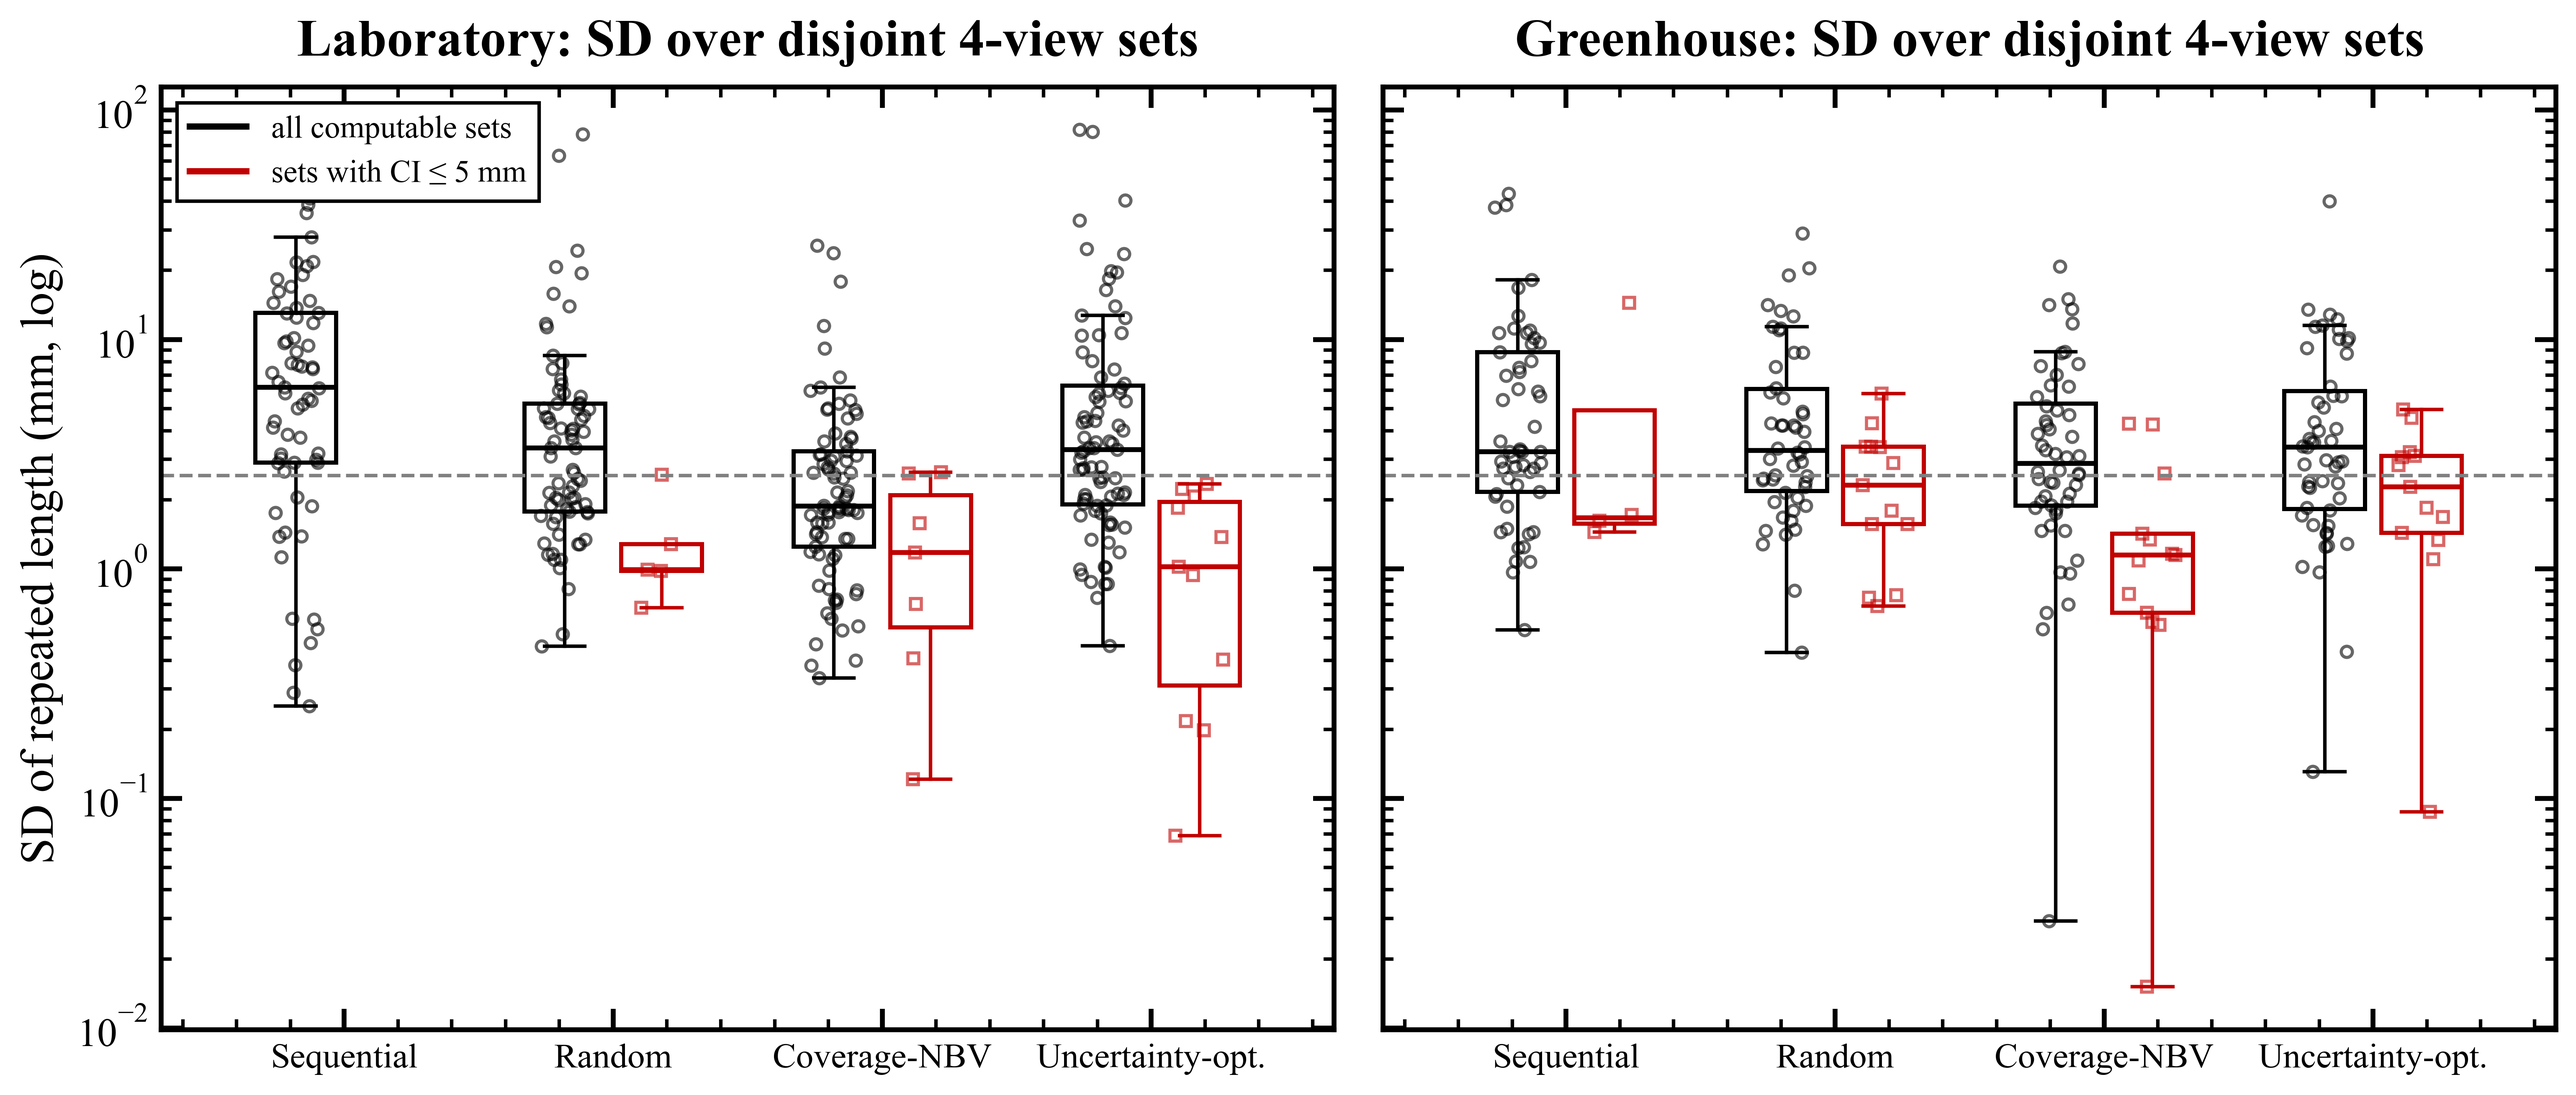
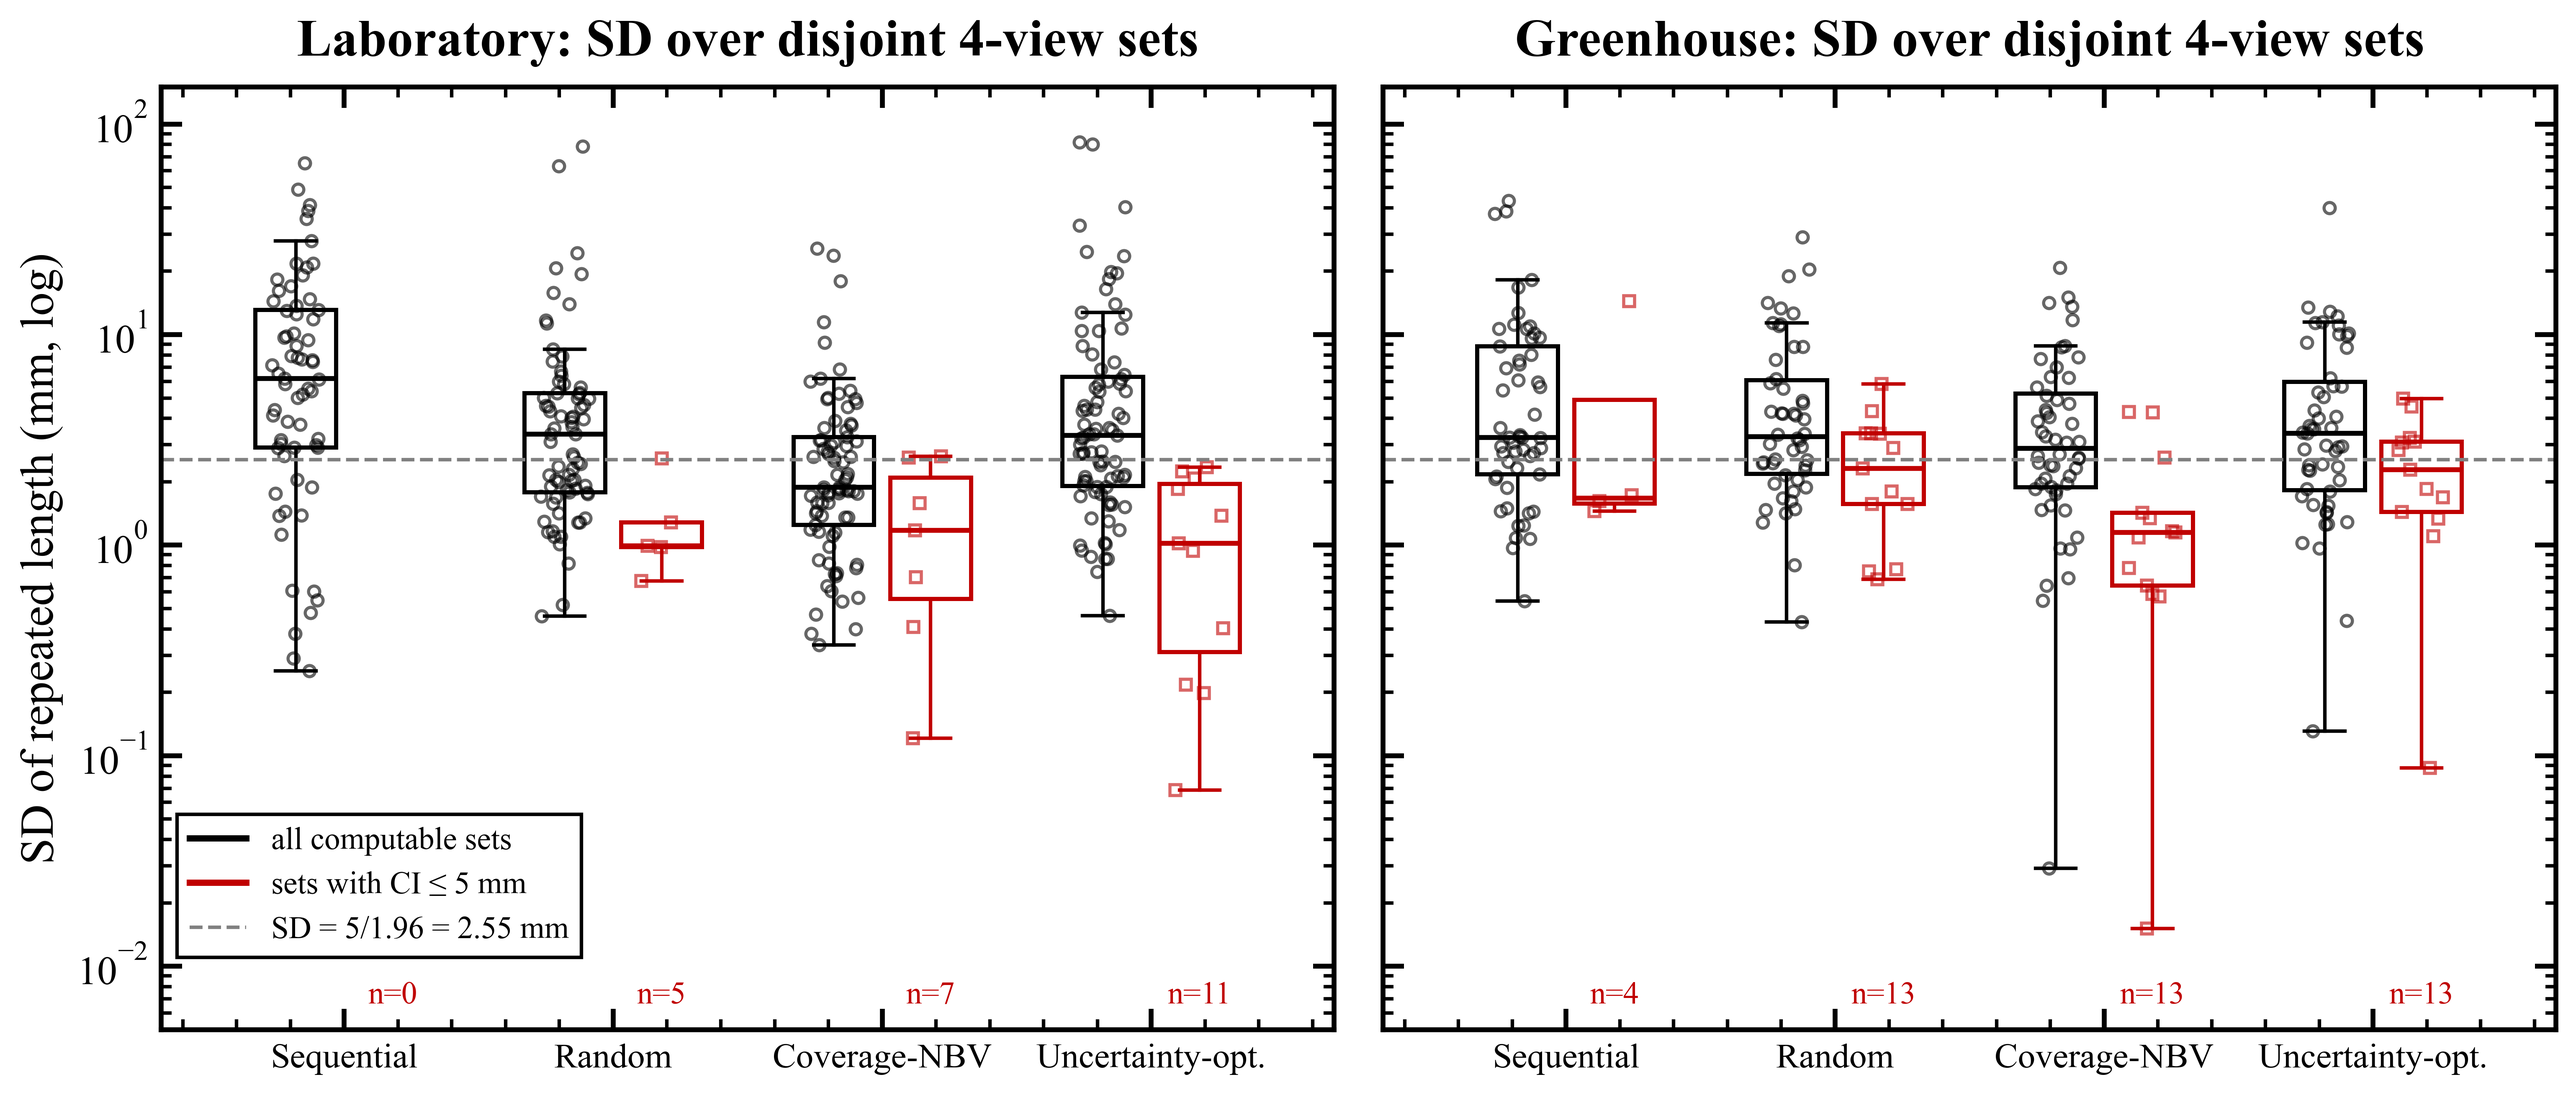
Add bias sensitivity check and clarify repeatability/gate figures
- Block A: report Wilcoxon p and a drop-largest-error sensitivity
  (lab verdicts are borderline: dropping one petiole flips bias/slope).
- Fig B: label the TAU/1.96 SD line, show n petioles per gated box.
- Fig C(b): MAE of accepted on a right-hand axis.
- Regenerate out/ (D outputs were still pre-settle-fix).

diff --git a/msa_analysis.py b/msa_analysis.py
@@ -124,7 +124,17 @@ def block_a(pet):
             linearity_slope=lin["slope"], linearity_slope_p=lin["p_slope"],
             linearity_intercept=lin["intercept"], linearity_r2=lin["r2"],
             pct_within_5mm=float(np.mean(np.abs(err) <= 5) * 100),
-            r_pearson=float(np.corrcoef(gt, gt + err)[0, 1]))
+            r_pearson=float(np.corrcoef(gt, gt + err)[0, 1]),
+            bias_wilcoxon_p=float(sps.wilcoxon(err).pvalue) if sps else float("nan"))
+        # sensitivity: drop the single largest |error| petiole (reported, not used for the verdict)
+        k = int(np.argmax(np.abs(err))); keep = np.arange(len(err)) != k
+        b2 = tstat_ci(err[keep]); lin2 = ols(gt[keep], err[keep])
+        res[coh]["drop_max"] = dict(
+            dropped=f"{sub[k]['plant']}#{sub[k]['pid']}", dropped_err=float(err[k]), dropped_ci=sub[k]["ci_full"],
+            n=int(keep.sum()), bias_mm=b2["mean"], bias_p=b2["p"],
+            bias_wilcoxon_p=float(sps.wilcoxon(err[keep]).pvalue) if sps else float("nan"),
+            loa=[b2["mean"] - 1.96 * b2["sd"], b2["mean"] + 1.96 * b2["sd"]],
+            linearity_slope=lin2["slope"], linearity_slope_p=lin2["p_slope"])
     # figure A
     fig, ax = plt.subplots(1, 2, figsize=(10.5, 4.6))
     for coh, st in COH_STYLE.items():
@@ -258,12 +268,15 @@ def block_b(pet):
                     markerfacecolor="none", markeredgecolor=BLACK, markersize=3.2, alpha=0.6)
             ax.plot(i + 0.18 + rng.uniform(-0.09, 0.09, len(dg)), dg, linestyle="none", marker="s",
                     markerfacecolor="none", markeredgecolor=RED, markersize=3.2, alpha=0.6)
+            ax.text(i + 0.18, 0.0062, f"n={len(dg)}", color=RED, ha="center", va="bottom", fontsize=9)
         ax.set_yscale("log"); ax.set_xticks(pos); ax.set_xticklabels([PROC_LABEL[p] for p in PROCS], fontsize=10)
         ax.set_title(f"{coh}: SD over disjoint {BUDGET}-view sets")
         ax.axhline(TAU / 1.96, color="grey", lw=1, ls="--")
     axes[0].set_ylabel("SD of repeated length (mm, log)")
     axes[0].plot([], [], color=BLACK, label="all computable sets"); axes[0].plot([], [], color=RED, label=f"sets with CI ≤ {TAU:.0f} mm")
-    axes[0].legend(loc="upper left", frameon=True, edgecolor="black", fancybox=False, fontsize=9)
+    axes[0].plot([], [], color="grey", lw=1, ls="--", label=f"SD = {TAU:.0f}/1.96 = {TAU / 1.96:.2f} mm")
+    axes[0].set_ylim(0.005, 150)
+    axes[0].legend(loc="lower left", bbox_to_anchor=(0, 0.06), frameon=True, edgecolor="black", fancybox=False, fontsize=9)
     fig.tight_layout(); fig.savefig(OUT / "figB_repeatability.png"); plt.close(fig)
     return res, rows
 
@@ -273,6 +286,7 @@ def block_c(rows):
     taus = np.arange(1.0, 30.5, 0.5)
     res = {}
     fig, ax = plt.subplots(1, 2, figsize=(10.5, 4.6))
+    ax1r = ax[1].twinx()
     for coh, st in COH_STYLE.items():
         sub = [x for x in rows if x["cohort"] == coh and x["proc"] == "uncertainty" and x["L"] is not None]
         ci = np.array([x["ci"] for x in sub]); ae = np.abs([x["err"] for x in sub])
@@ -289,16 +303,18 @@ def block_c(rows):
         ax[0].plot(ci, ae, linestyle="none", marker=st["marker"], markerfacecolor="none",
                    markeredgecolor=st["color"], markersize=4.5, alpha=0.8, label=f"{coh} (n={len(sub)})")
         ax[1].plot(taus, acc, color=st["color"], lw=1.8, label=f"{coh}: accepted (%)")
-        ax[1].plot(taus, mae, color=st["color"], lw=1.8, ls="--", label=f"{coh}: MAE of accepted (mm)")
+        ax1r.plot(taus, mae, color=st["color"], lw=1.8, ls="--", label=f"{coh}: MAE of accepted (mm, right)")
     ax[0].set_xscale("log"); ax[0].set_yscale("log")
     ax[0].axvline(TAU, color="grey", lw=1, ls="--"); ax[0].axhline(10, color="grey", lw=1, ls=":")
     ax[0].set_xlabel("Predicted 95% half-interval (mm)"); ax[0].set_ylabel("|error| vs caliper (mm)")
     ax[0].set_title("(a) Predicted interval vs actual error (4-view sets)")
     ax[0].legend(loc="upper left", frameon=True, edgecolor="black", fancybox=False, fontsize=9)
     ax[1].axvline(TAU, color="grey", lw=1, ls="--")
-    ax[1].set_xlabel("Acceptance threshold τ on predicted interval (mm)"); ax[1].set_ylabel("Accepted (%)  /  MAE of accepted (mm)")
+    ax[1].set_xlabel("Acceptance threshold τ on predicted interval (mm)"); ax[1].set_ylabel("Accepted (%, solid)")
+    ax[1].set_ylim(0, 100); ax1r.set_ylim(0, 8); ax1r.set_ylabel("MAE of accepted (mm, dashed)")
     ax[1].set_title("(b) Yield-quality trade-off of the interval gate")
-    ax[1].legend(loc="center right", frameon=True, edgecolor="black", fancybox=False, fontsize=9)
+    h1, l1 = ax[1].get_legend_handles_labels(); h2, l2 = ax1r.get_legend_handles_labels()
+    ax[1].legend(h1 + h2, l1 + l2, loc="lower right", frameon=True, edgecolor="black", fancybox=False, fontsize=9)
     fig.tight_layout(); fig.savefig(OUT / "figC_interval_gate.png"); plt.close(fig)
     return res
 
